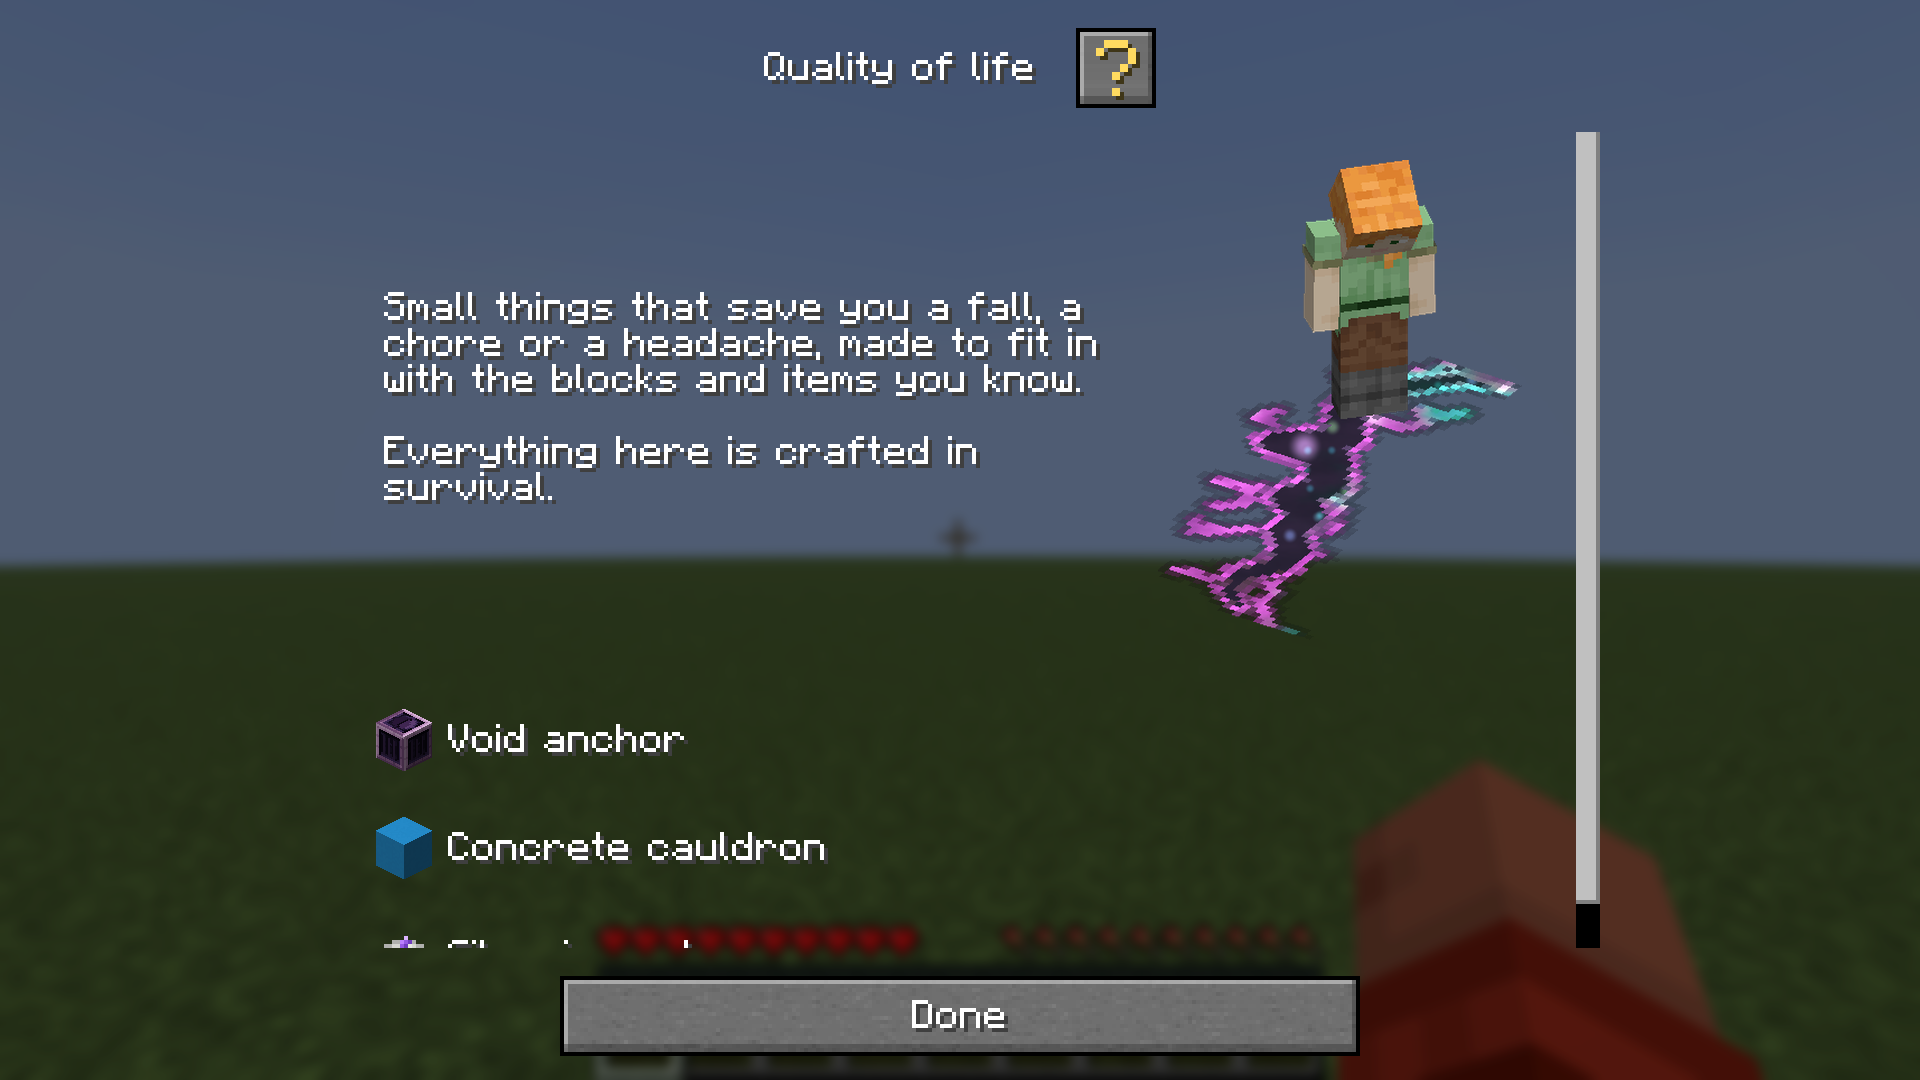
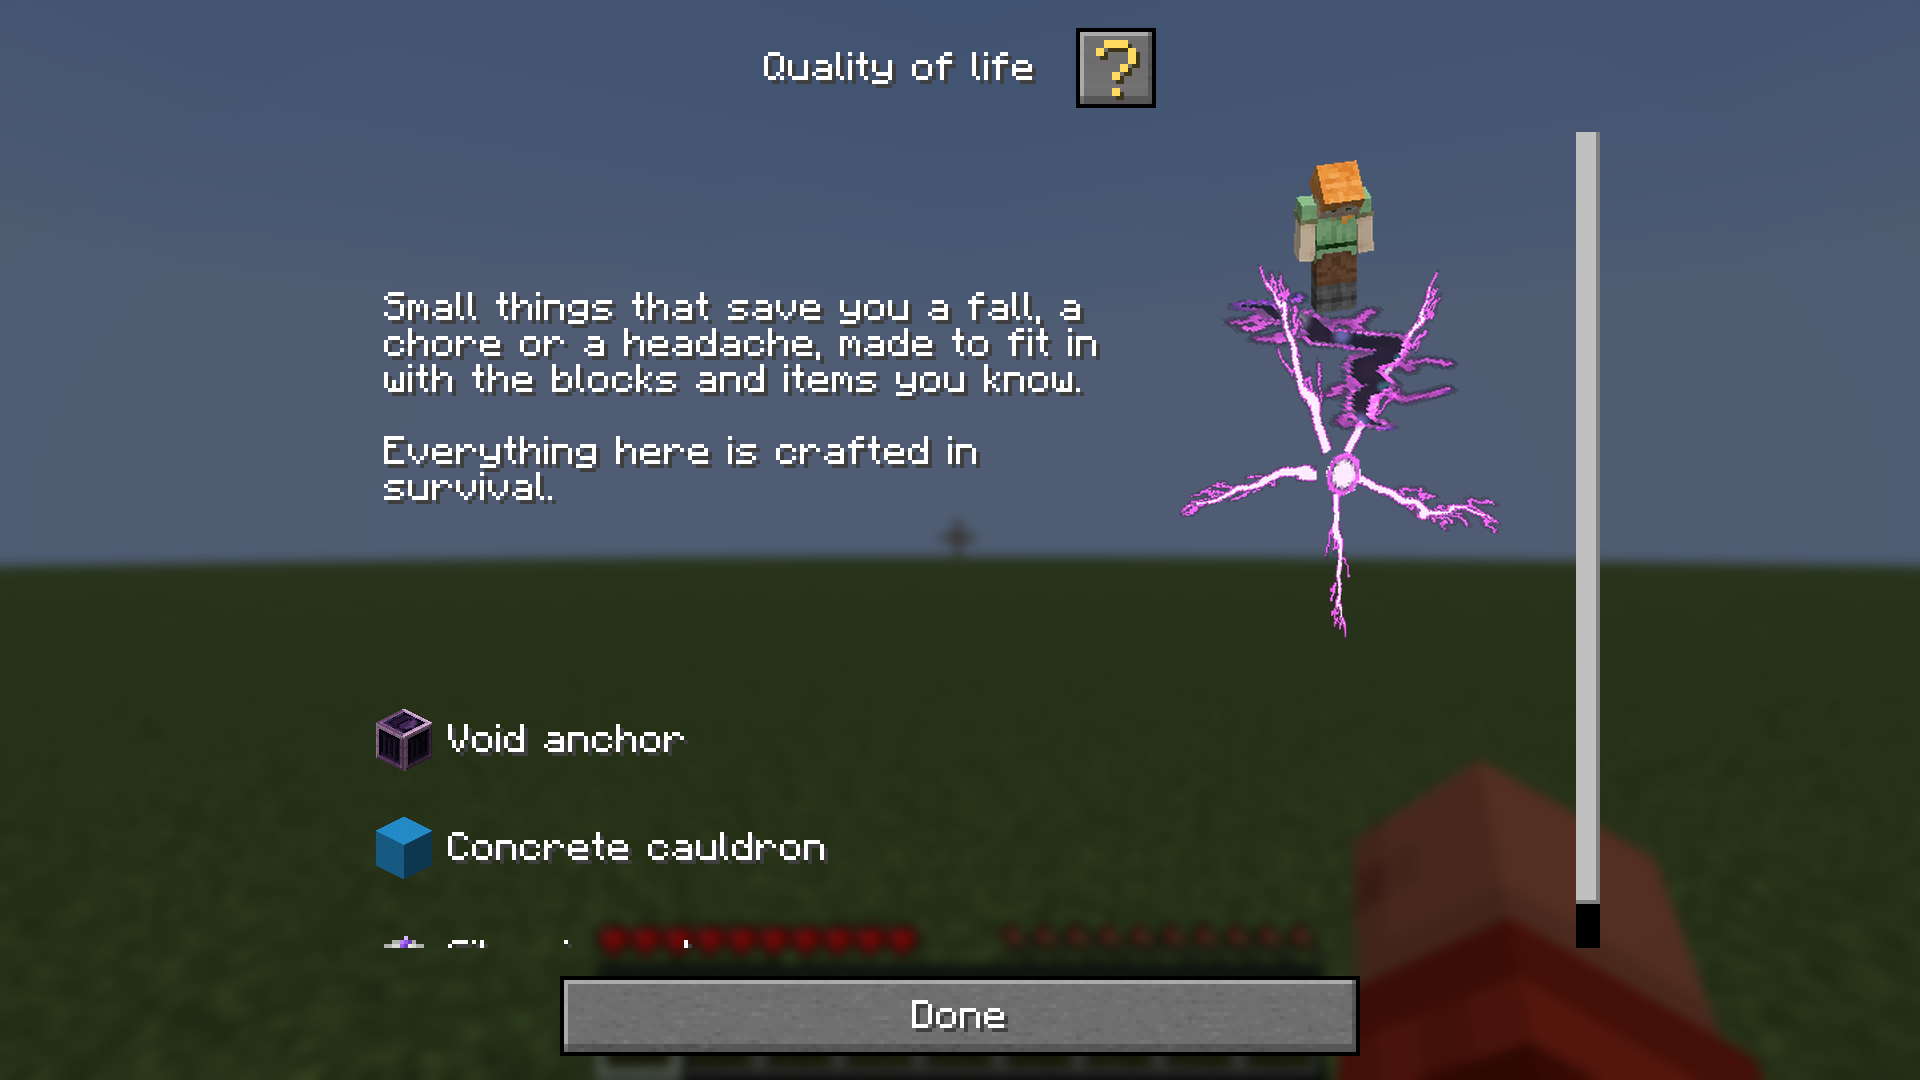
metacraft-booklet: the void anchor page shows the rift as it is now
The Falling section says what happens: you stop and look down while space cracks
open, sink in, the world goes white, you step out of a crack on your anchor; an
elytra folds. The rift picture is redrawn: the shatter rift, its burst under the
crack, someone sinking in.

Changed region(s): [[0.5938, 0.1528, 0.7812, 0.5806]]

diff --git a/mods/metacraft-booklet/src/gametest/java/nu/metacraft/booklet/clienttest/BookletRenders.java b/mods/metacraft-booklet/src/gametest/java/nu/metacraft/booklet/clienttest/BookletRenders.java
@@ -86,6 +86,7 @@ import net.minecraft.world.phys.Vec3;
 import nu.metacraft.qol.silence_mobs.SilenceMobs;
 import nu.metacraft.qol.void_anchor.VoidAnchorBlocks;
 import nu.metacraft.qol.void_anchor.rift.Rift;
+import nu.metacraft.qol.void_anchor.rift.RiftStyle;
 
 /**
  * The guidebook's page images, the way Patbox makes PolyFactory's: each scene is built in a flat
@@ -291,7 +292,7 @@ public final class BookletRenders implements FabricClientGameTest {
 			new Scene("decorating/lead", new BlockPos(72, -60, 20), new BlockPos(76, -59, 20), 70),
 			new Scene("decorating/trowel", new BlockPos(80, -61, 17), new BlockPos(81, -61, 21), 70),
 			new Scene("qol/void_anchor", new BlockPos(99, -61, 19), new BlockPos(101, -60, 21), 80),
-			new Scene("qol/rift", new BlockPos(105, -59, 19), new BlockPos(108, -56, 22), 70),
+			new Scene("qol/rift", new BlockPos(104, -60, 18), new BlockPos(109, -54, 23), 55),
 			new Scene("qol/concrete", new BlockPos(111, -60, 19), new BlockPos(113, -58, 21), 80),
 			new Scene("qol/muffler", new BlockPos(117, -60, 20), new BlockPos(120, -58, 21), 75));
 
@@ -421,10 +422,11 @@ public final class BookletRenders implements FabricClientGameTest {
 		level.setBlockAndUpdate(new BlockPos(100, -60, 20),
 				VoidAnchorBlocks.VOID_ANCHOR.value().defaultBlockState().setValue(RespawnAnchorBlock.CHARGE, 3));
 
-		// a crack open in the air, someone sinking into it (opened here, not by command: it stays open)
-		Rift.open(level, new Vec3(106.5, -58.6, 20.5), 3.6f);
+		// a crack open in the air, its light bursting out from under it, someone sinking into it
+		// (opened here, not by command: it stays open)
+		Rift.open(level, new Vec3(106.5, -56.6, 20.5), 3.6f, RiftStyle.SHATTER);
 		Mannequin sinking = new Mannequin(EntityTypes.MANNEQUIN, level);
-		sinking.setPos(106.5, -57.9, 20.5);
+		sinking.setPos(106.5, -55.9, 20.5);
 		sinking.setNoGravity(true);
 		sinking.setYRot(30); sinking.setYBodyRot(30); sinking.setYHeadRot(30);
 		sinking.setXRot(40);
